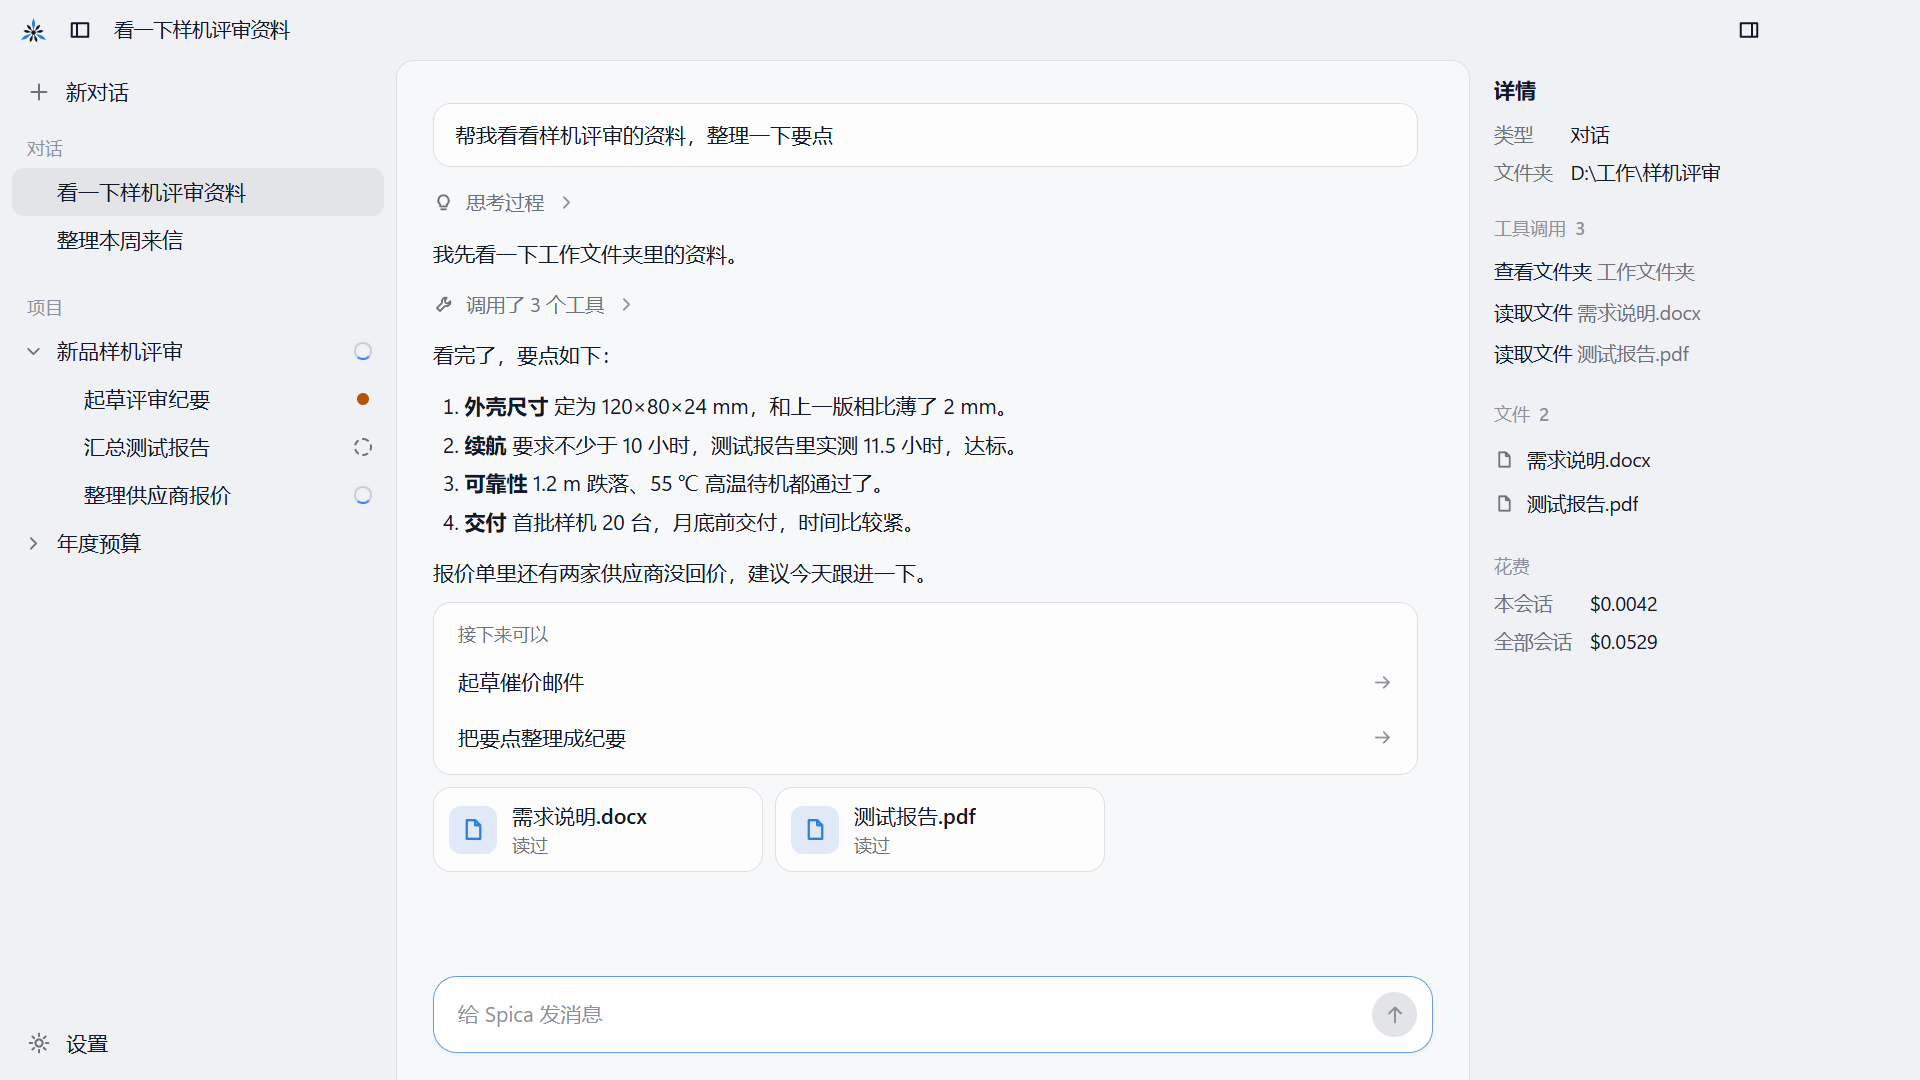
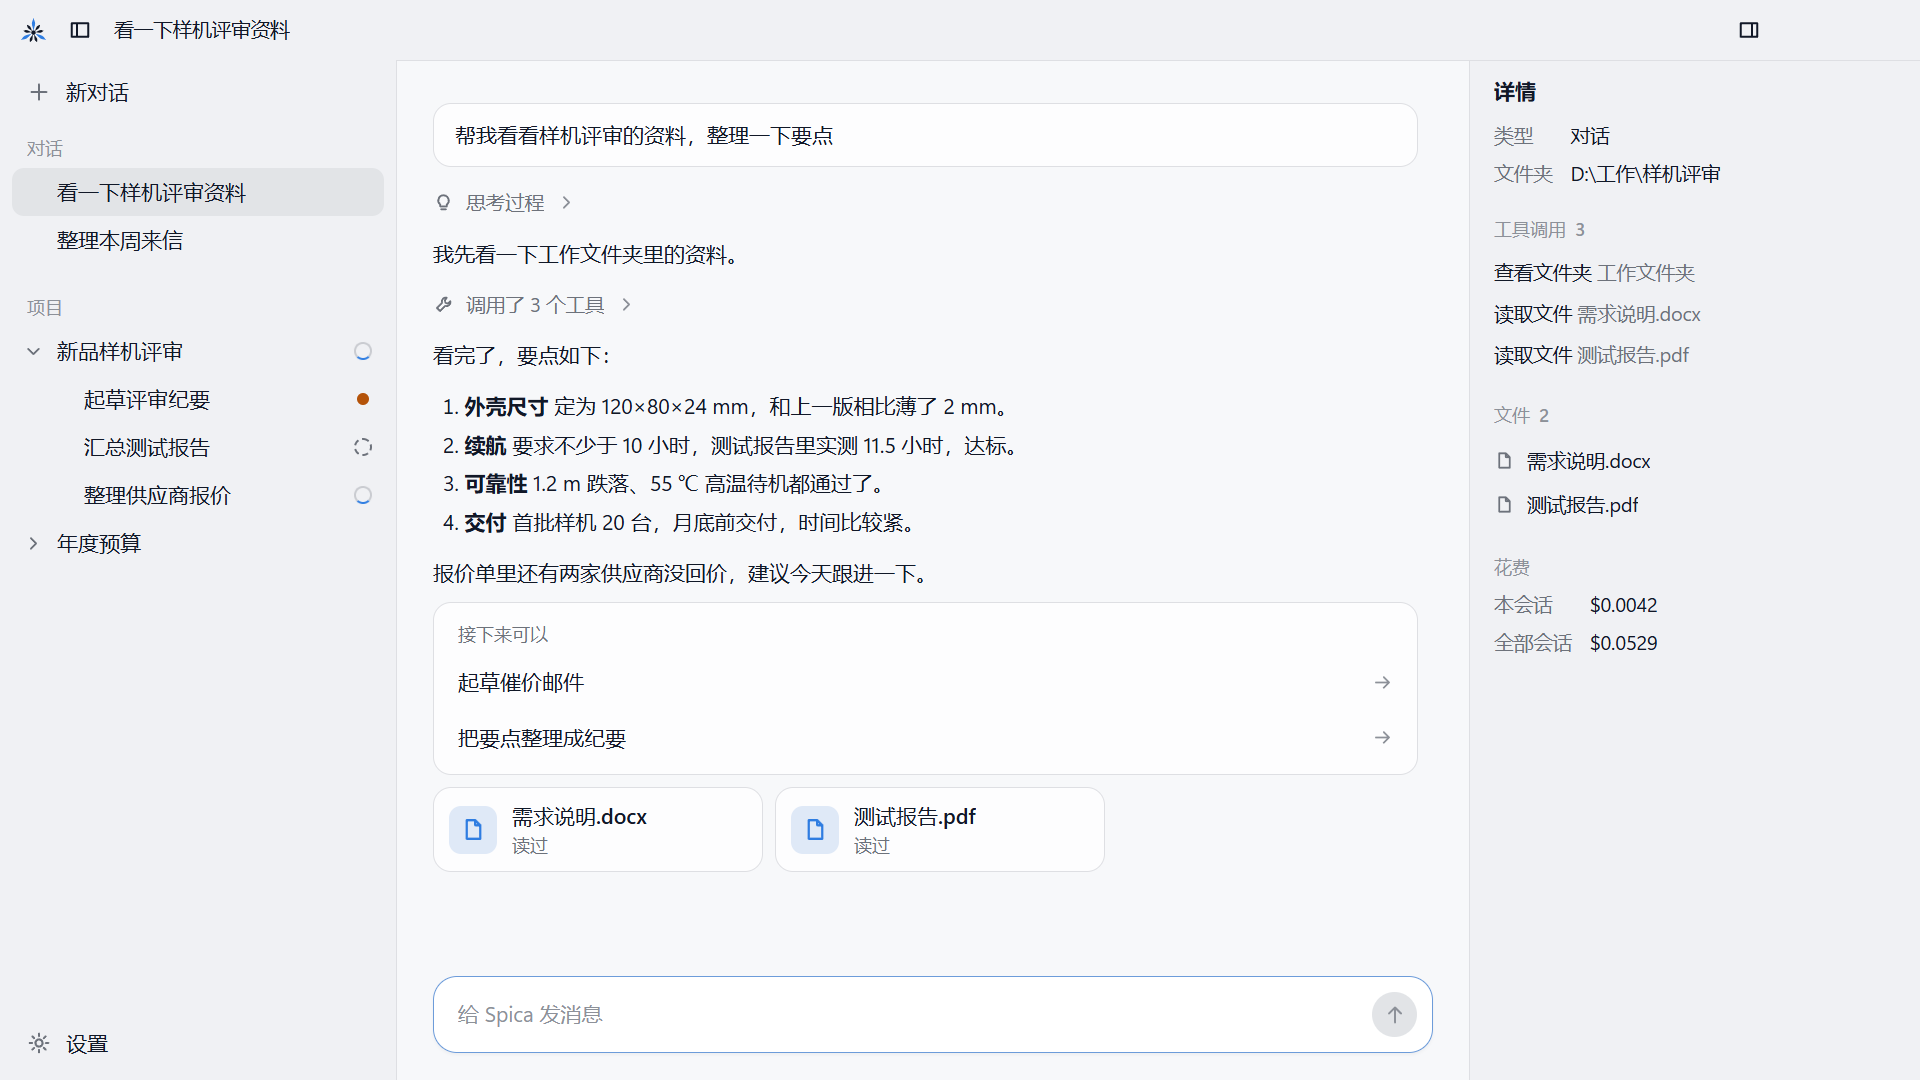
Draw the pane borders as straight full-length lines
The line under the title bar now runs from the sidebar's edge to the
window's right edge, over the detail panel too, and the main pane has
square corners.

diff --git a/apps/desktop/src/renderer/src/styles.css b/apps/desktop/src/renderer/src/styles.css
@@ -201,6 +201,7 @@ a:hover {
 
 .panel-right {
   width: 300px;
+  border-top: 1px solid var(--spica-border);
 }
 
 .panel.is-floating {
@@ -236,14 +237,15 @@ a:hover {
   border-top: 1px solid var(--spica-border);
 }
 
+/* Frame lines: one straight line under the title bar from the sidebar's
+   edge to the window's right edge (over the main pane and the detail panel),
+   and straight full-height lines between the panes. Square corners. */
 .app[data-left='docked'] .main {
   border-left: 1px solid var(--spica-border);
-  border-top-left-radius: var(--radius-l);
 }
 
 .app[data-right='docked'] .main {
   border-right: 1px solid var(--spica-border);
-  border-top-right-radius: var(--radius-l);
 }
 
 /* ---------- Buttons ---------- */
